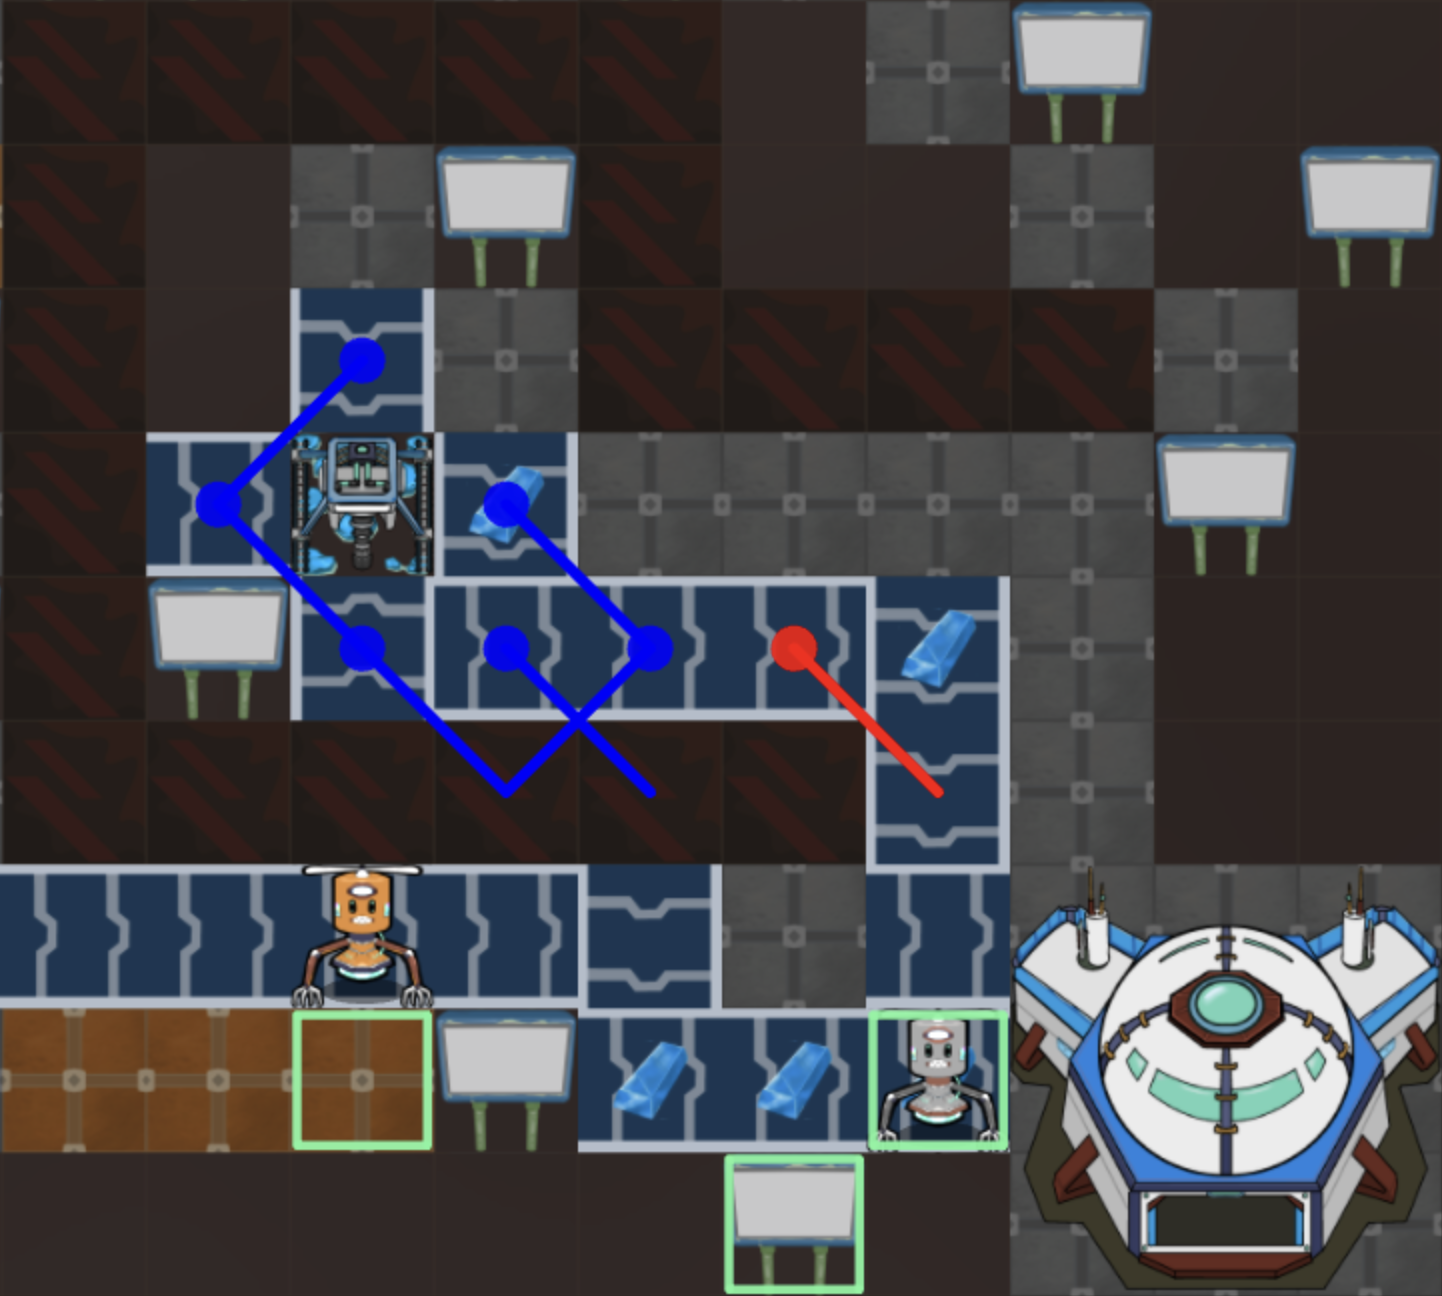
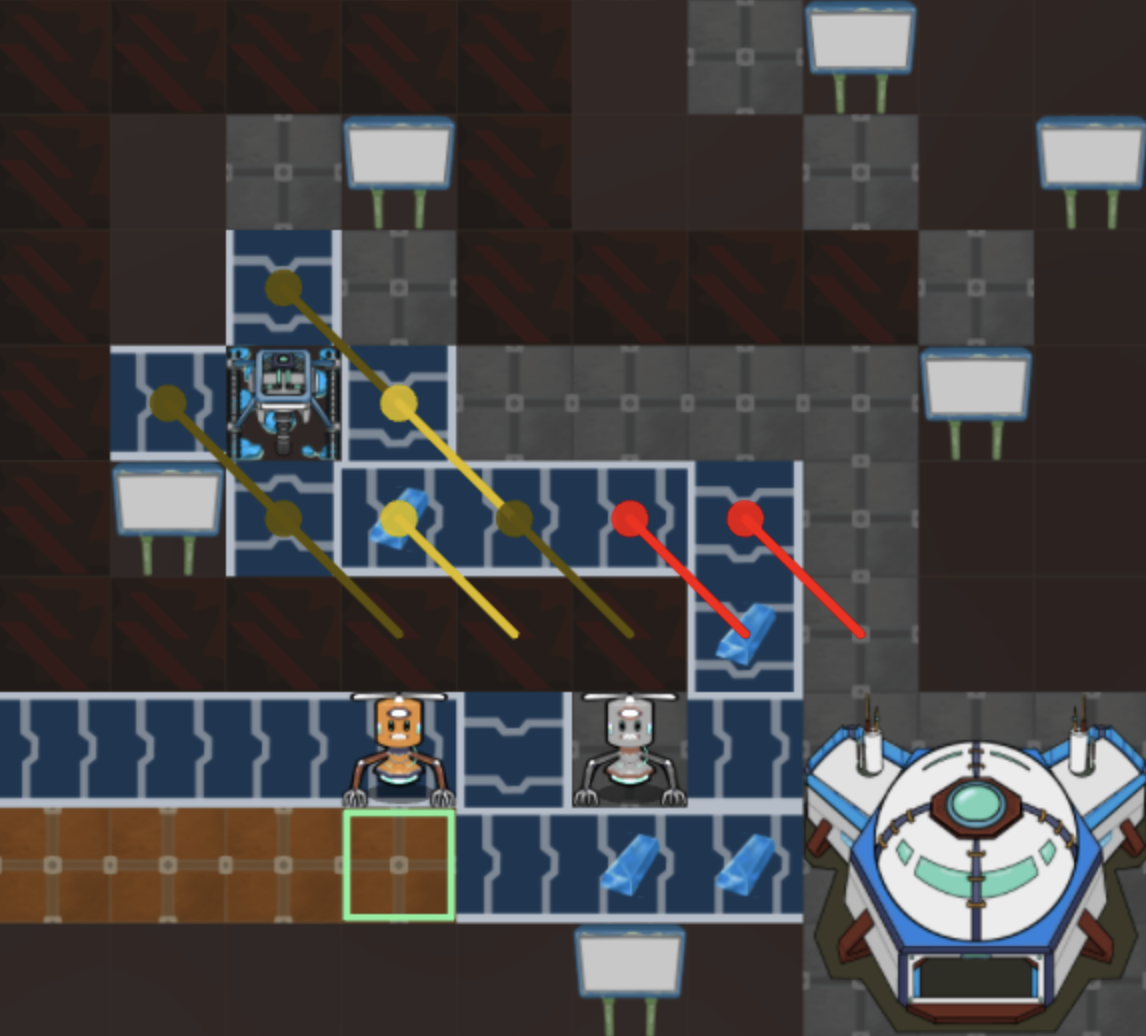
update postmortem

diff --git a/postmortem/postmortem.tex b/postmortem/postmortem.tex
@@ -348,7 +348,7 @@ The intent is for long-term behavior to emerge from every builder acting optimal
 Although these territorial strategies are not hard-coded, they emerge
 from our state management and scoring system and are worth highlighting.
 
-\textbf{Ore hopping} is our strategy of using ally-controlled harvesters as staging points
+\textbf{Ore hopping} (Figure~\ref{fig:orehopping}) is our strategy of using ally-controlled harvesters as staging points
 for attack turrets. By placing turrets along the frontier of our controlled territory, we
 can shoot the defenses around nearby opponent harvesters. Our builder bots can then take over
 the enemy harvester by building more turrets around it.
@@ -373,11 +373,12 @@ out enough, a turret placed at an ally ore cannot reach an enemy ore, and it is 
     {\small After}
   \end{minipage}
   \caption{Ore hopping.}
+  \label{fig:orehopping}
   \Description{Two side-by-side game screenshots showing the ore-hopping strategy: in the ``before'' image, friendly turrets sit along the frontier of our territory; in the ``after'' image, those turrets have eliminated an enemy gunner adjacent to a nearby enemy harvester, allowing us to take it over.}
 \end{figure}
 
 
-\textbf{Seeding} is a more aggressive way of gaining territory. This involves
+\textbf{Seeding} (Figure~\ref{fig:seeding}) is a more aggressive way of gaining territory. This involves
 builder bots intercepting an enemy conveyor line by attacking it until an allied ``seed'' turret can be placed in the gap. The analogy is that much like seeding a plant, our infrastructure can grow from a single turret investment as it destroys enemy targets around it and frees up space for more of our turrets and conveyors to be placed.
 
 Seeding is easily countered by enemy builder bots simply out-healing the attack if nearby, though there are special cases described later where this can be prevented.
@@ -396,6 +397,7 @@ Seeding is easily countered by enemy builder bots simply out-healing the attack 
     {\small After}
   \end{minipage}
   \caption{Seeding.}
+  \label{fig:seeding}
   \Description{Two side-by-side game screenshots showing the seeding strategy: in the ``before'' image, a builder bot attacks an enemy conveyor line to create a gap; in the ``after'' image, an allied ``seed'' turret has been placed in that gap.}
 \end{figure}
 
@@ -1070,6 +1072,14 @@ On the new builder's first turn, it reads its own position relative to the core,
 
 The bot follows that target until it is within squared distance 18 or 30 rounds have elapsed, after which the slot is cleared and default explore takes over.
 
+\begin{figure}[H]
+  \centering
+  \includegraphics[width=0.9\linewidth]{images/initial_explore.png}
+  \caption{Initial Exploration Targets.}
+  \label{fig:initial-exploration-targets}
+  \Description{Screenshot showing the four initial exploration rays going out from the core, showing the paths the first few builder bots plan to take.}
+\end{figure}
+
 \subsubsection*{Frontier Sampling}
 
 If not following the initial explore plan, the explore-target generator floodfills from the bot's current position and other known friendly bot locations. It then samples a random tile from a frontier ring near the edge of the explored area once the flood terminates:
@@ -1132,8 +1142,16 @@ else:
 
 We only coordinate one-taps this way for sentinels with a higher id than the other ally sentinel in vision. This is because entities act in increasing id order, so the higher-id sentinel will always be able to react to the lower-id sentinel's shot within the same turn, but not vice versa.
 
+
 Our sentinels will consider self-destructing if they are not adjacent to a harvester and there is no enemy builder bot nearby. They will self-destruct after 16 turns if they have no ammo, or after only 4 turns if they also have no possible upstream feeder.
 
+\begin{figure}[H]
+  \centering
+  \includegraphics[width=0.9\linewidth]{images/one_shot.png}
+  \caption{A sentinel one-shot on an enemy harvester.}
+  \label{fig:one_shot}
+  \Description{Screenshot of two sentinels shooting the same enemy harvester on the same turn. By coordinating their shot and killing the harvester quickly, they leave no room for enemy builder bots to heal it.}
+\end{figure}
 
 \subsection{Gunner}
 
@@ -1157,6 +1175,7 @@ throw to argmin (size[dest], -wall_bfs_dist(dest))
 
 The effect is to either keep the enemy out of our territory, or keep them away from a tile we are trying to disrupt.
 
+\vfill\null
 
 \section{Chokepoint Detection}
 
@@ -1247,7 +1266,6 @@ chokepointer sets the numeric backend to ordinary Python floats rather
 than \code{Decimal}. This loses arbitrary precision, but the inputs are
 already quantized to map/sub-tile coordinates, and the speedup is large
 enough to matter for all-map iteration.
-\vfill\null
 
 \begin{lstlisting}
 set_foronoi_numeric_mode("float")
@@ -1617,7 +1635,6 @@ blocking terrain is useful opportunistically but should not override
 obvious attacks, repairs, or routing work. Instead, after the main state
 runs, the builder checks whether it can cheaply place a chokepoint blocker
 nearby.
-\vfill\null
 
 \begin{lstlisting}
 def try_passive_chokepoint_action_only():
@@ -1775,7 +1792,7 @@ Thus, if we build a mask containing possible target tiles (for explore targets, 
 
 Python attribute and global lookups are not free, and some of our inner loops
 run hundreds of thousands of times per turn. Hence, every hot function binds the module and
-controller members it needs to locals \emph{once}, before the loop:
+controller members it needs to locals once before the loop:
 
 \begin{lstlisting}
 # bfs_move, before the frontier loop iterates:
@@ -1806,12 +1823,12 @@ The harvest zone, which is a Voronoi floodfill from our core against the predict
 enemy core used to approximate safe harvest locations, only runs when symmetry predictions update.
 The column and row guard masks and the eight per-facing direction
 templates for sentinels are likewise built at
-\code{init} and not touched again.
+\code{init} and not updated again.
 
 \subsection{Incremental Updates}
 
-We also prioritize patching information rather than fully rebuilding it.
-\code{update\_at} maintains conveyor output and reverse conveyor output bitmasks as buildings are updated,
+We prioritize updating our map info structures rather than fully rebuilding them.
+For example, \code{update\_at} maintains conveyor output and reverse conveyor output bitmasks as buildings are updated,
 rather than rescanning the entire map.
 
 Furthermore, after a move, \code{update\_move} diffs the old and
@@ -1830,12 +1847,7 @@ This reduces the number of tiles we scan after moving from all tiles within visi
 
 \subsection{TTL Caches}
 
-States that depend on expensive build paths remember failure. Bounded-TTL
-sets include caches for harvest failures, unaffordable attempts, secure
-failures, attack failures, and pathing failures,
-which record ``this tile was unbuildable or unaffordable'' for $\sim\!100$
-rounds, so a bot does not waste runtime trying to recompute if a previously failed
-target tile should be acted on again.
+States that depend on expensive calculations to find target tiles remember the tiles that failed. We use Time to Live (TTL) caches that store target tiles we want to skip for $100$ rounds, so we don't waste compute trying to calculate if a recently failed target tile should be acted on again.
 
 \subsection{Debugging}
 